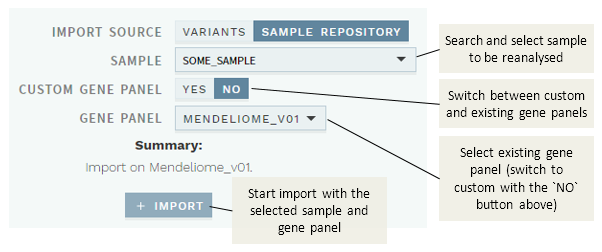
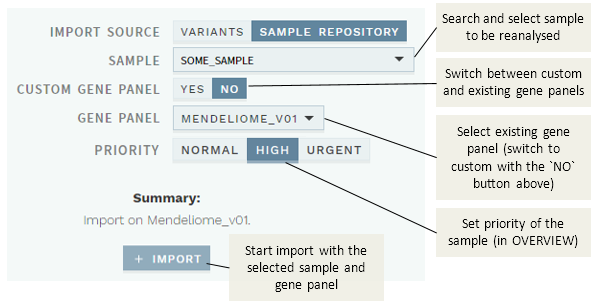
[docs] Docs changes for !309, !311 and !312. Some minor further edits for !301, !304.

diff --git a/docs/manual/data-import-reanalyses.md b/docs/manual/data-import-reanalyses.md
@@ -57,14 +57,14 @@ Results from multiple analyses may be imported at the same time by inserting a l
 The contents of each original file is given its own import number and treated separately.
 
 ::: warning NOTE
-Variants for the same sample must all be given in the same format. If you wish to import variants with multiple formats (e.g. HGVS cDNA and genomic) to the same sample, copy the sample header (starting with “-“) to a new line and move any variants with a deviating format under it.
+Variants for the same sample must all be given in the same format. If you wish to import variants with multiple formats (e.g. HGVS cDNA and genomic) to the same sample, copy the sample header (starting with "-") to a new line and move any variants with a deviating format under it.
 :::
 
 ### Import options
 
-You may change parameters by clicking the `EDIT IMPORT` button (automatically opened if a warning: “Selection is incomplete” is displayed):
+You may change parameters by clicking the `IMPORT OPTIONS` button (automatically opened if a warning: "Selection is incomplete" is displayed):
 
-<div style="text-indent: 4%;"><img src="./img/edit_import_btn.png"></div>
+<div style="text-indent: 4%;"><img src="./img/import_options_btn.png"></div>
 
 Depending on your data, the following options are available:
 
@@ -100,7 +100,12 @@ The default reanalysis mode is to use an existing gene panel (CUSTOM GENE PANEL:
 
 <div style="text-indent: 4%;"><img src="./img/reanalysis_existing.png"></div>
 
-To start a reanalysis, search and choose a sample name, choose a gene panel and then hit the `+ IMPORT` button.
+To start a reanalysis: 
+
+- Search and choose a sample name
+- Choose a gene panel.
+- Set the priority of the sample (for the OVERVIEW worklists)
+- Click the `+ IMPORT` button to submit the import.
 
 ### Use custom gene panel
 

diff --git a/docs/releasenotes/README.md b/docs/releasenotes/README.md
@@ -58,14 +58,22 @@ The information includes which genes are in the panel (with inheritance and defa
 
 Attachments are now named after the filename (instead of an index number), and details are available by hovering the mouse over an attachment.
 
+#### Set priority on manual imports/reanalyses
+
+It is now possible to change the priority (relevant for the OVERVIEW work lists) on manual imports and reanalyses (mode: CREATE).
+
 ### Complete list of changes, additions and fixes
 
 - [Merged import functions into single section on OVERVIEW page](#improved-import-function).
 - [Added possibility for batch queries of genes to include in a reanalysis](#improved-import-function).
 - [Added gene panel info](#gene-panel-info).
 - [Attachments named after filename, mouse-over gives details](#improvements-to-attachments).
+- [Added possibility for setting priority on manual imports and reanalyses](#set-priority-on-manual-imports-reanalyses).
+- Harmonized formatting of REPORT field on CLASSIFICATION and REPORT pages.
+- Order of alleles is now consistently REF-ALT in the QUALITY card.
 - Fixed bug causing missing comment field (REPORT).
-- Harmonized formatting of REPORT field on CLASSIFICATION and REPORT pages. 
+- Fixed bug causing timeouts when changing workflow state for analyses with large gene panels.
+
 
 ## 1.6.2
 

diff --git a/docs/manual/info-page.md b/docs/manual/info-page.md
@@ -36,7 +36,7 @@ Selecting this will bring up a pop-up showing the included genes:
 
 <div style="text-indent: 4%;"><img src="./img/gene_panel_info.png"></div>
 
-- Hover your mouse over a gene to show additional information (inheritance mode and default transcript).
+- Hover your mouse over a gene to show additional information (inheritance mode, indications and default transcript).
 
 - Quickly search for a gene using the FILTER box.
 
